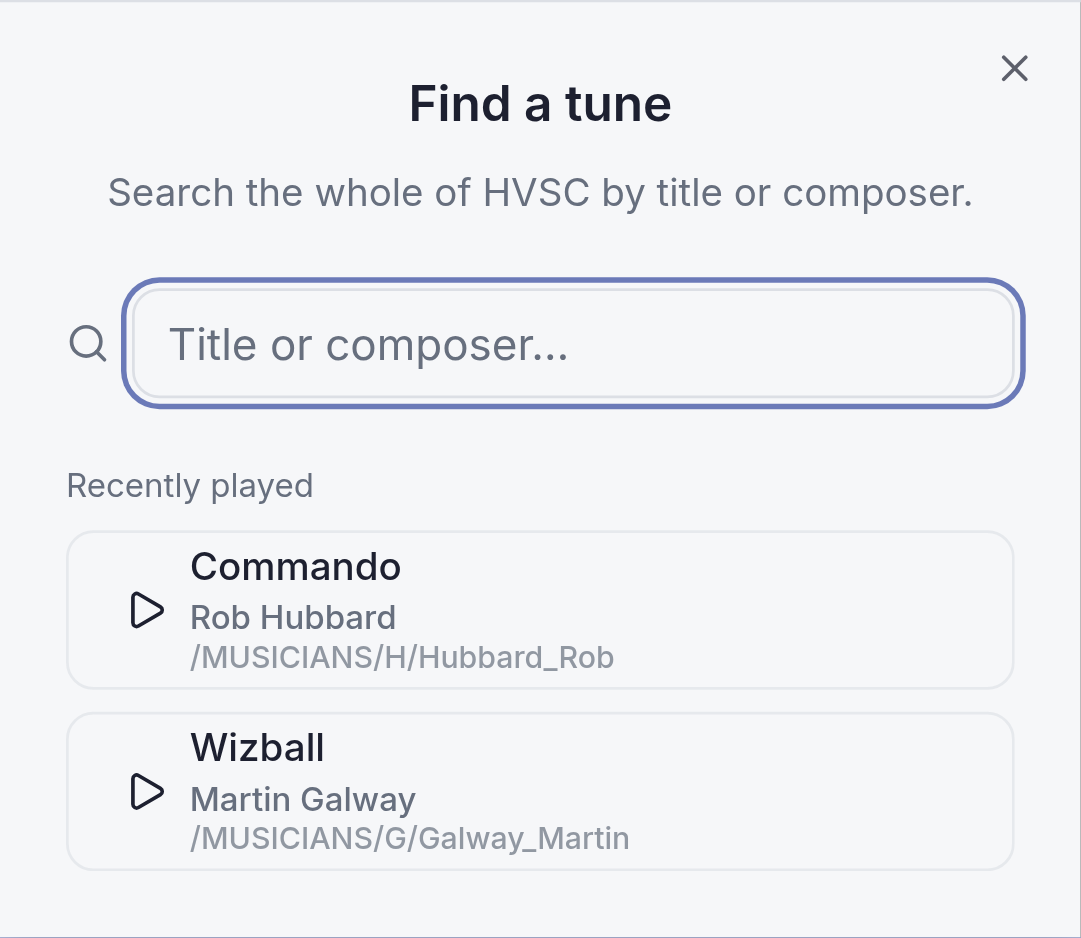
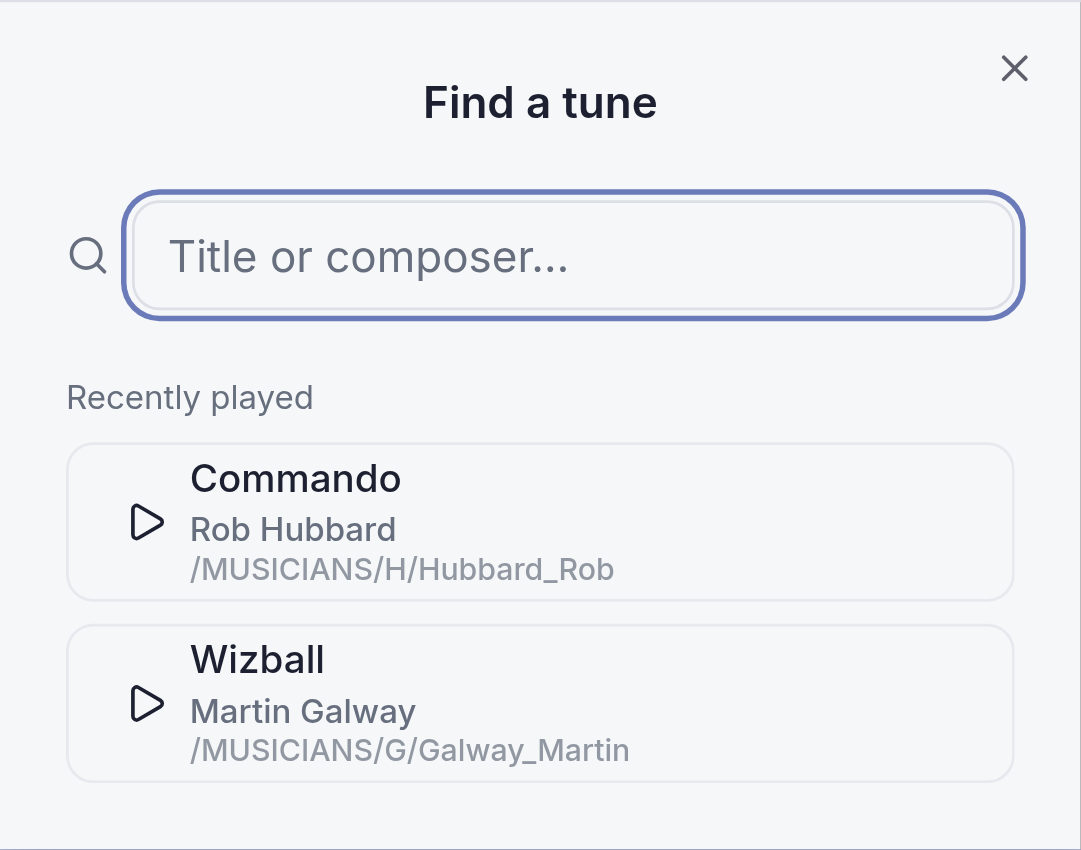
fix(play): give the recently-played list the room the intro was taking
The explanatory sentence is worth its height while there is nothing else to
read, and not once there is. With a recents list under it, the three-line
description left one and a half rows visible on a Pixel 4 — the same squeeze it
was already removed from the results for. Also reattaches this component's own
doc comment, which the shared-row extraction had left describing the row.

diff --git a/src/pages/playFiles/components/HvscSearchSheet.tsx b/src/pages/playFiles/components/HvscSearchSheet.tsx
@@ -50,18 +50,6 @@ export type HvscSearchSheetProps = {
 };
 
 /**
- * Reaching for a particular tune, by name, anywhere in HVSC.
- *
- * A station is endless and chooses for you, which is the point of it — right up to the moment you
- * want to hear one specific thing. Before this there was no way to do that without stopping the
- * station, going to the picker, drilling down through the composer folders to a tune you could
- * already name, adding it to the playlist and losing the station entirely.
- *
- * So the tune is played as an interruption rather than as a replacement: the station keeps its
- * place, the tune plays, and the station carries on. Seeding a new station from what was found is
- * the other thing people want here, and it is one tap away on the same row.
- */
-/**
  * One tune, as a row.
  *
  * Shared by the search results and by what was recently played, so the two can never disagree about
@@ -134,6 +122,18 @@ const TuneList = ({
   </ul>
 );
 
+/**
+ * Reaching for a particular tune, by name, anywhere in HVSC.
+ *
+ * A station is endless and chooses for you, which is the point of it — right up to the moment you
+ * want to hear one specific thing. Before this there was no way to do that without stopping the
+ * station, going to the picker, drilling down through the composer folders to a tune you could
+ * already name, adding it to the playlist and losing the station entirely.
+ *
+ * So the tune is played as an interruption rather than as a replacement: the station keeps its
+ * place, the tune plays, and the station carries on. Seeding a new station from what was found is
+ * the other thing people want here, and it is one tap away on the same row.
+ */
 export const HvscSearchSheet = ({
   open,
   onOpenChange,
@@ -143,16 +143,6 @@ export const HvscSearchSheet = ({
   stationActive,
 }: HvscSearchSheetProps) => {
   const search = useHvscArchiveSearch({ enabled: open });
-  /**
-   * Whether the explanatory text is still worth its height.
-   *
-   * The keyboard takes roughly half this sheet the moment the field is focused, and measured on a
-   * Pixel 4 the three-line description plus the title left about one and a half result rows visible,
-   * with the second clipped mid-line. The description is onboarding — it answers "what does this
-   * search do" — and once somebody has typed they have stopped asking that and started reading
-   * results. So it is spent on the empty state and reclaimed for the list afterwards.
-   */
-  const showIntro = !search.query.trim();
   // Read once per opening: it changes only when a track starts, which cannot happen while this is
   // the thing being looked at.
   const [recent, setRecent] = useState<HvscSearchHit[]>([]);
@@ -160,6 +150,17 @@ export const HvscSearchSheet = ({
     if (!open) return;
     setRecent(recentlyPlayedTunes());
   }, [open]);
+  /**
+   * Whether the explanatory text is still worth its height.
+   *
+   * The keyboard takes roughly half this sheet the moment the field is focused, and measured on a
+   * Pixel 4 the three-line description plus the title left about one and a half result rows visible,
+   * with the second clipped mid-line. The description is onboarding — it answers "what does this
+   * search do" — so it is worth its height exactly while there is nothing else to read, and not once
+   * there is: results, or the tunes just heard. Both of those answer the same question better than
+   * the sentence does.
+   */
+  const showIntro = !search.query.trim() && recent.length === 0;
   // Act first, close second: the action is the point, and a handler that needed this sheet still
   // mounted would otherwise break silently.
   const play = useCallback(
